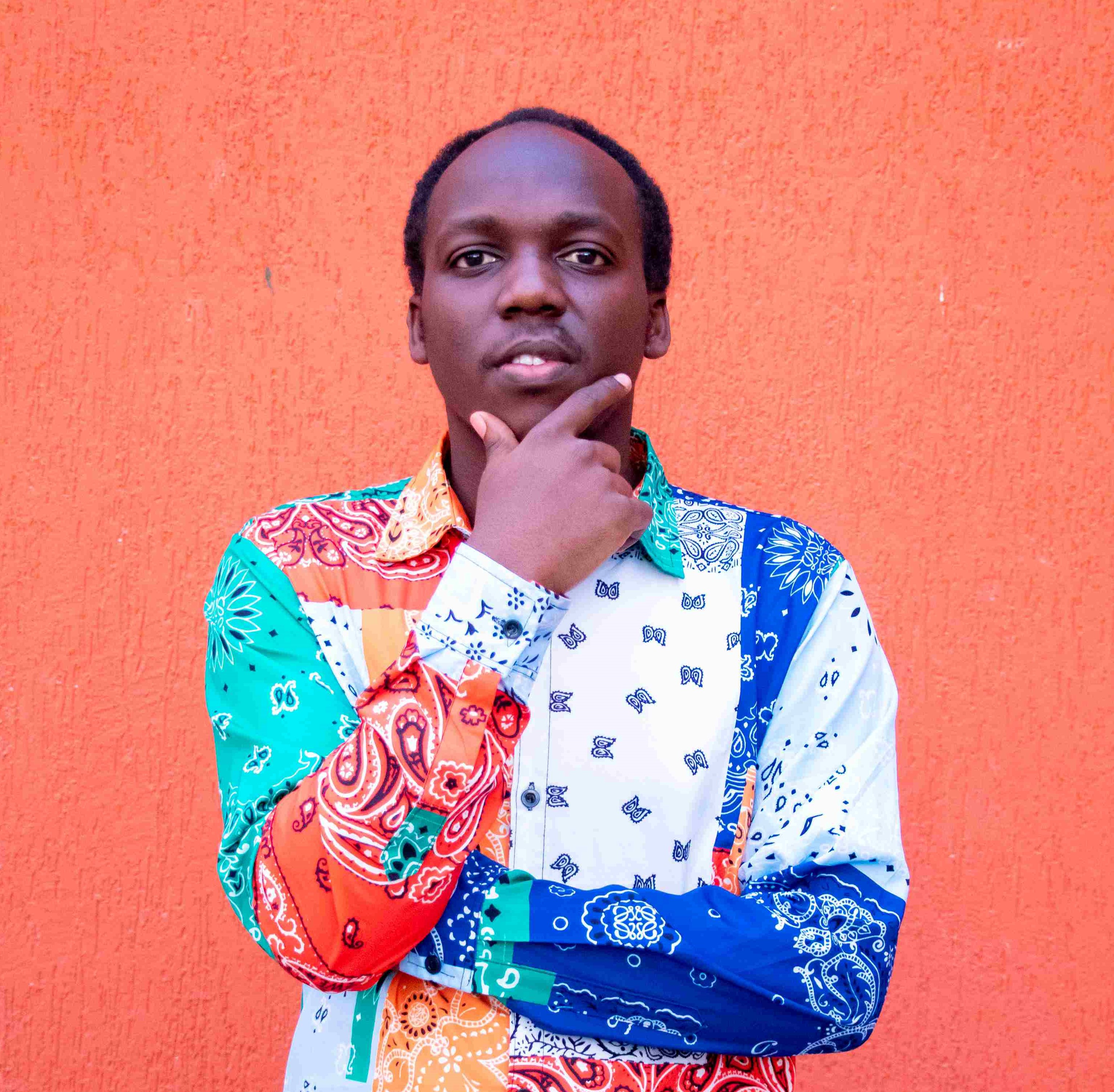
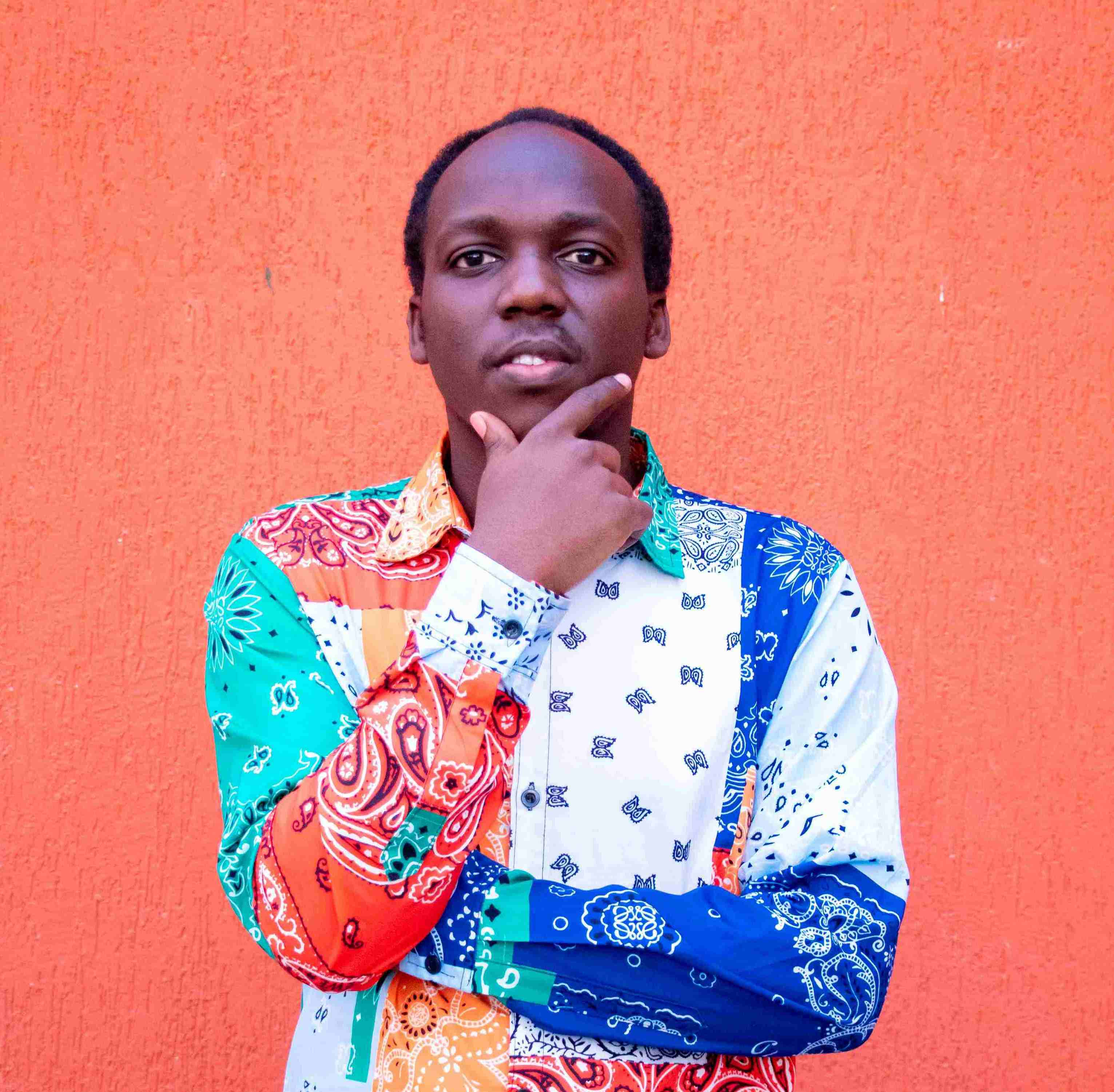
Fix: reduced photoMe file size

diff --git a/index.html b/index.html
@@ -18,7 +18,7 @@
 
 							<!-- Header -->
 								<header id="header">
-									<a href="index.html" class="logo"><strong>Trying</strong> to be better day by day</a>
+									<a href="index.html" class="logo"><strong>Junior</strong> Frontend Engineer | React, JavaScript</a>
 									<ul class="icons">
 										<li><a href="https://twitter.com/kevinmbuimushan" class="icon brands fa-twitter" target="_blank"><span class="label">Twitter</span></a></li>
 										<li><a href="https://www.linkedin.com/in/kevinmbui/" target="_blank" class="icon brands fa-linkedin"><span class="label">LinkedIn</span></a></li>
@@ -31,8 +31,8 @@
 								<section id="banner">
 									<div class="content">
 										<header>
-											<h1>Hi, I’m Kevin, Your Everyday Software Developer</h1>
-											<p>Want to know more about me? i.e check my resume, what I deal with, projects, contacts? Please Click the button below.</p>
+											<h1>Hi, I’m Kevin. A Frontend Engineer.</h1>
+											<p>I deal with React, TypeScript, JavaScript, Node.js, Redux</p>
 										</header>
 										<ul class="actions">
 											<li><a href="about.html" class="button big">About me/Resume</a></li>
